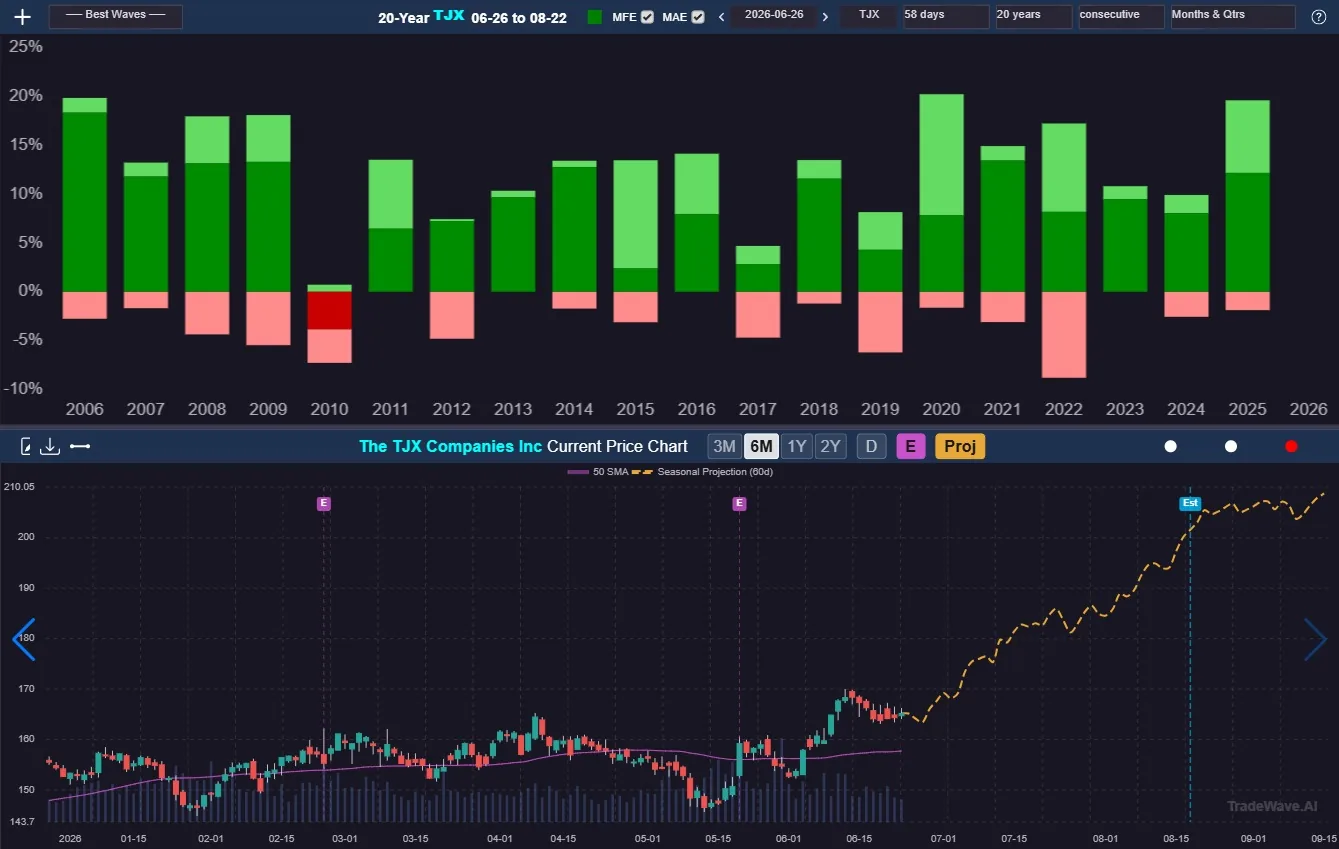
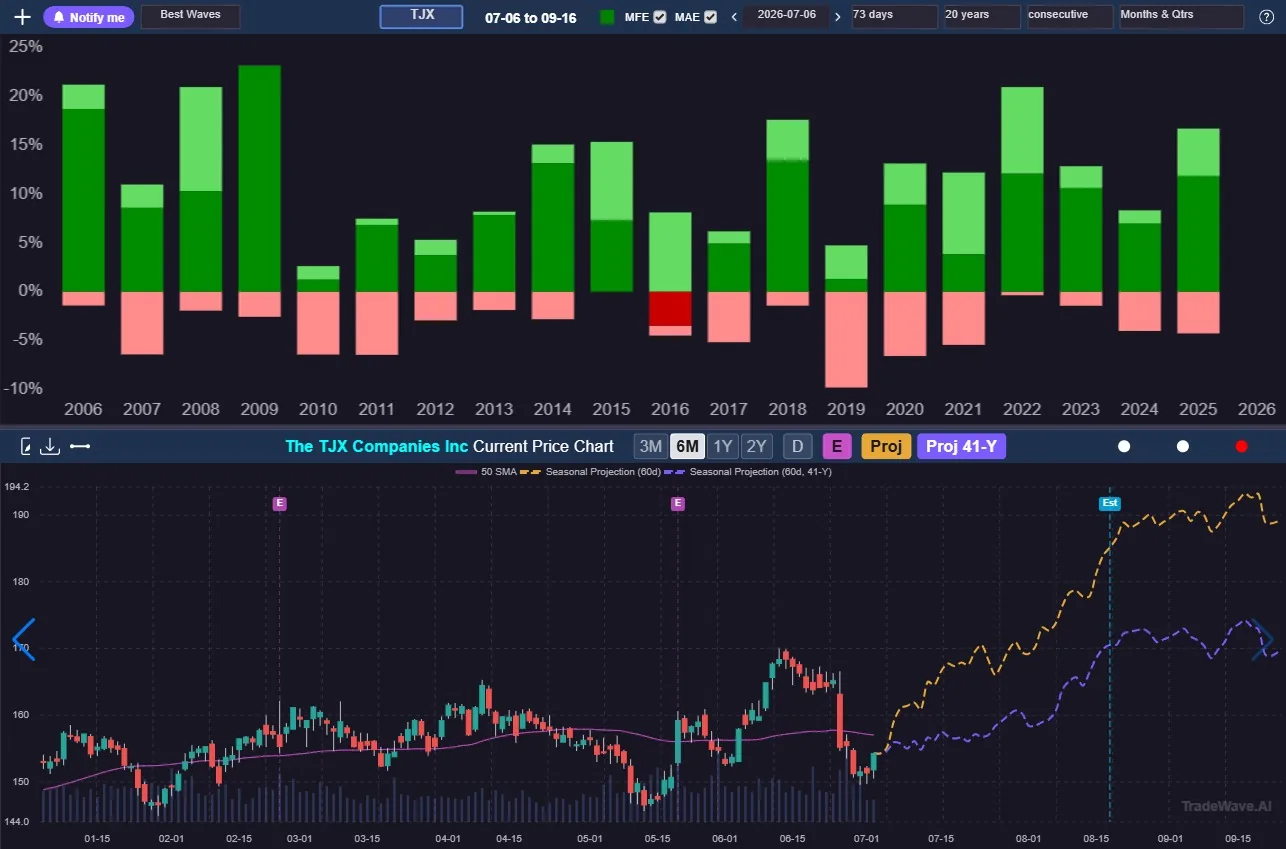
feat(home+ops): ledger resolved-mix guarantee, $14 navigator fallback, hardening
- build_ledger_rows: guarantee >=3 settled rows in the proof strip (picks run
  22-30 days, so the newest 5 are routinely all pending - an all-pending strip
  reads as no track record); rows stay real entries, newest first
- navigator yearly fallback aligned to the decided $168/yr: $14 equiv,
  $0.46/day, Save 26% (the $13.25/30% figure was the June-20 proposal draft)
- homepage template funnel polish, api_marketing env fixes, nginx security
  headers + staging bootstrap hardening; ignore session scratch/backup junk

Claude-Session: https://claude.ai/code/session_0122aCw2KgN8Gwn5tQUi1Hte

diff --git a/site/templates/index-dark-blue.html b/site/templates/index-dark-blue.html
@@ -475,7 +475,7 @@ footer{border-top:1px solid var(--line);padding:56px 0 64px;color:var(--faint);f
 
 <!-- 01 / HERO (copy bound via content.hero - tournament winner; scored runner-ups documented in the generator) -->
 <section class="hero"><div class="wrap">
-  {% if content.mcp_live %}<a href="{{ content.hero.pill_url }}" class="hero-pill reveal"><span class="tag">New</span>{{ content.hero.pill_text }}<span class="arr">&rarr;</span></a>{% endif %}
+  {% if content.mcp_live %}<a href="{{ content.hero.pill_url }}" class="hero-pill reveal"><span class="tag">New</span>{{ content.hero.pill_text }}<span class="arr">&rarr;</span></a>{% elif content.hero.pill_calendar_text %}<a href="{{ content.hero.pill_calendar_url }}" class="hero-pill reveal"><span class="tag">New</span>{{ content.hero.pill_calendar_text }}<span class="arr">&rarr;</span></a>{% endif %}
   <div class="eyebrow reveal" style="justify-content:center"><span class="n">01</span> / {{ content.hero.eyebrow }}</div>
   <h1 class="reveal d1">{{ content.hero.headline }}</h1>
   <p class="section-sub reveal d1" style="max-width:680px">{{ content.hero.subheadline }}</p>
@@ -535,7 +535,7 @@ footer{border-top:1px solid var(--line);padding:56px 0 64px;color:var(--faint);f
     <div class="frame-wrap portrait reveal d1" style="max-width:420px;margin-top:0">
       <div class="frame frame--artifact">
         <div class="bar"><span class="dot"></span><span class="dot"></span><span class="dot"></span><span class="url">tradewave.ai/app - Tara</span></div>
-        <img src="/_static/ask.webp" alt="Tara answering a market question with a named, ranked shortlist of tech stocks beside the live opportunity table" loading="lazy" decoding="async" width="575" height="849">
+        <img src="/_static/ask.webp?v={{ content.asset_v['ask.webp'] }}" alt="Tara answering a market question with a named, ranked shortlist of tech stocks beside the live opportunity table" loading="lazy" decoding="async" width="575" height="849">
       </div>
     </div>
   </div>
@@ -550,7 +550,7 @@ footer{border-top:1px solid var(--line);padding:56px 0 64px;color:var(--faint);f
   <div class="frame-wrap landscape reveal d2" style="max-width:1080px">
     <div class="frame frame--artifact">
       <div class="bar"><span class="dot"></span><span class="dot"></span><span class="dot"></span><span class="url">tradewave.ai/app - 20-Year TJX</span></div>
-      <img src="/_static/evidence_hero.webp" alt="20-Year TJX per-year bars, each pairing the favorable run with the drawdown, above the TJX price chart with this year's dashed seasonal projection" loading="lazy" decoding="async" width="1339" height="849">
+      <img src="/_static/evidence_hero.webp?v={{ content.asset_v['evidence_hero.webp'] }}" alt="20-Year TJX per-year bars, each pairing the favorable run with the drawdown, above the TJX price chart with this year's dashed seasonal projection - with the one-click Notify me calendar-reminder button in the toolbar" loading="lazy" decoding="async" width="1286" height="849">
     </div>
   </div>
   <div class="caption">20 years of TJX. The model only ranks and calibrates the odds - it never predicts. <a href="{{ content.methodology_url }}" style="color:var(--faint);text-decoration:underline">Read the methodology &rarr;</a></div>
@@ -585,7 +585,7 @@ footer{border-top:1px solid var(--line);padding:56px 0 64px;color:var(--faint);f
     <div class="frame-wrap portrait reveal" style="max-width:380px;margin-top:0">
       <div class="frame frame--artifact">
         <div class="bar"><span class="dot"></span><span class="dot"></span><span class="dot"></span><span class="url">tradewave.ai/app - explain</span></div>
-        <img src="/_static/shows_work.webp" alt="The scorecard and explain view showing a pick's full per-year record beside its outcome" loading="lazy" decoding="async" width="575" height="850">
+        <img src="/_static/shows_work.webp?v={{ content.asset_v['shows_work.webp'] }}" alt="The scorecard and explain view showing a pick's full per-year record beside its outcome" loading="lazy" decoding="async" width="575" height="850">
       </div>
     </div>
     <div class="panelshot" style="box-shadow:0 24px 60px rgba(0,0,0,.4),inset 0 1px 0 rgba(63,182,139,.12)">
@@ -608,6 +608,36 @@ footer{border-top:1px solid var(--line);padding:56px 0 64px;color:var(--faint);f
     <div class="av">AM</div>
     <div><q>Every number on this page traces back to a per-year table you can open and an audit log you can read.</q><span class="by">{{ content.founder.name }}, founder, Tara Data Research LLC</span></div>
   </div>
+</div></section>
+
+<!-- CALENDAR REMINDERS band (unnumbered, like the CTA/free-report bands, so the
+     section numbering stays intact). One-click notify bell: the visual is the
+     real button -> the real Google Calendar event it creates. Keep the mock
+     event content in sync with googleCalendarEvents.js if the copy there
+     changes. Google Calendar only for now - do NOT generalize to "your
+     calendar" until the .ics (Apple/Outlook) path ships. -->
+<section id="calendar-reminders"><div class="wrap" style="text-align:center">
+  <h2 class="reveal">Never Watch the Calendar Again</h2>
+  <p class="section-sub reveal d1" style="margin:14px auto 0;text-align:center;max-width:640px">A seasonal window opens on a specific date - miss it, and the pattern doesn't wait. One click in the Wave Viewer puts the open and the close on your Google Calendar, evidence attached, reminder set for the morning it begins.</p>
+  <div class="reveal d1" style="display:flex;align-items:center;justify-content:center;gap:18px;flex-wrap:wrap;margin-top:26px">
+    <div style="text-align:center">
+      <span style="display:inline-flex;align-items:center;background:#7C5CFF;color:#fff;border-radius:999px;padding:8px 18px;font-weight:600;font-size:.95rem;box-shadow:0 6px 24px rgba(124,92,255,.35)"><svg width="13" height="13" viewBox="0 0 16 16" fill="#fff" style="margin-right:7px" aria-hidden="true"><path d="M8 16a2 2 0 0 0 2-2H6a2 2 0 0 0 2 2m.995-14.901a1 1 0 1 0-1.99 0A5 5 0 0 0 3 6c0 1.098-.5 6-2 7h14c-1.5-1-2-5.902-2-7a5 5 0 0 0-4.005-4.901"/></svg>Notify me</span>
+      <div class="faint" style="font-size:.75rem;margin-top:8px">one click in the viewer</div>
+    </div>
+    <div class="faint" style="font-size:1.6rem" aria-hidden="true">&rarr;</div>
+    <div class="panelshot" style="max-width:430px;text-align:left;padding:18px 20px">
+      <div style="display:flex;align-items:flex-start;gap:10px">
+        <span style="width:12px;height:12px;border-radius:3px;background:#7C5CFF;margin-top:5px;flex:0 0 auto"></span>
+        <div>
+          <div style="font-weight:700;color:var(--ink);font-size:.95rem;line-height:1.35">TJX Long &mdash; TradeWave Seasonal Start (Oct 12 &ndash; Nov 24)</div>
+          <div class="faint" style="font-size:.8rem;margin-top:3px">Monday, October 12 &middot; 8:00 AM</div>
+        </div>
+      </div>
+      <div style="border-top:1px solid rgba(255,255,255,.08);margin:12px 0"></div>
+      <div style="font-size:.85rem;color:var(--muted);line-height:1.6"><b style="color:var(--ink)">Seasonal pattern window opens today.</b><br>Full per-year record and shareable report linked inside.<br>Reminders: email 24 h before &middot; popup at 8:00 AM</div>
+    </div>
+  </div>
+  <div class="micro reveal d1" style="margin-top:18px">Included with every plan, even Free. Both the start and the end date land on your calendar - change times or reminders anytime.</div>
 </div></section>
 
 <!-- 06 / WHAT TRADERS SAY (third-party proof: content.video + content.video2, both

diff --git a/site/api_marketing/generate.py b/site/api_marketing/generate.py
@@ -679,13 +679,15 @@ def build_index() -> str:
   </div>
 </section>
 
-<!-- Competitor comparison -->
+<!-- What makes TradeWave different (provider-neutral category columns; no competitor names per house rule) -->
 <section class="section alt">
   <div class="container">
     <div class="section-head">
-      <h2 class="gradient-text-w">How TradeWave compares</h2>
-      <p>Seasonax is the closest alternative - Bloomberg-gated at ~$480/mo with no ML layer and no API.
-         TradeWave undercuts that price and is accessible to any developer or AI agent today.</p>
+      <h2 class="gradient-text-w">What Makes TradeWave Different</h2>
+      <p>TradeWave is the only seasonality engine that both shows its work and scores the odds: an
+         AI-calibrated win-probability on every pattern, a forward-recorded track record, and native
+         REST and MCP access - at a fraction of the cost of a data terminal, open to any developer or
+         AI agent today.</p>
     </div>
     <div class="comp-table-wrap">
       <table class="comp-table">
@@ -693,18 +695,18 @@ def build_index() -> str:
           <tr>
             <th>Feature</th>
             <th>TradeWave API</th>
-            <th>Seasonax</th>
-            <th>Bloomberg Terminal</th>
+            <th>Typical seasonality tools</th>
+            <th>Data terminals</th>
           </tr>
         </thead>
         <tbody>
           <tr><td class="feat-col">ML win-probability scoring</td><td class="tw-col">All tiers (unlimited on Pro+)</td><td class="no-col">No</td><td class="no-col">No</td></tr>
-          <tr><td class="feat-col">REST API access</td><td class="tw-col">Yes - all tiers</td><td class="no-col">No</td><td class="no-col">Terminal only</td></tr>
+          <tr><td class="feat-col">REST API access</td><td class="tw-col">Yes - all tiers</td><td class="no-col">Rare</td><td class="no-col">Terminal only</td></tr>
           <tr><td class="feat-col">MCP / AI agent integration</td><td class="tw-col">Yes - native</td><td class="no-col">No</td><td class="no-col">No</td></tr>
           <tr><td class="feat-col">Verified pick track record</td><td class="tw-col">Yes - forward-recorded</td><td class="no-col">Backtest only</td><td class="no-col">No</td></tr>
-          <tr><td class="feat-col">Redistributable to your own users</td><td class="tw-col">Yes - by design</td><td class="no-col">Mixed</td><td class="no-col">Raw data</td></tr>
-          <tr><td class="feat-col">Starting price</td><td class="tw-col">Free</td><td>~$480/mo</td><td>~$24,000/yr</td></tr>
-          <tr><td class="feat-col">No Bloomberg required</td><td class="tw-col">Yes</td><td class="no-col">No (integration)</td><td>Bloomberg IS the product</td></tr>
+          <tr><td class="feat-col">Redistributable to your own users</td><td class="tw-col">Yes - by design</td><td class="no-col">Mixed</td><td class="no-col">Raw data only</td></tr>
+          <tr><td class="feat-col">No data terminal or seat required</td><td class="tw-col">Yes</td><td class="no-col">Varies</td><td class="no-col">Required</td></tr>
+          <tr><td class="feat-col">Starting price</td><td class="tw-col">Free</td><td>Hundreds per month</td><td>Tens of thousands per year</td></tr>
         </tbody>
       </table>
     </div>
@@ -795,8 +797,8 @@ def build_pricing() -> str:
         taglines = {
             "free": "ML scores included (5/day) - no commitment.",
             "dev": "Build and prototype with full market access (100 ML scores/day).",
-            "pro": "Unlimited ML win-probability scoring across every market.",
-            "business": "High-volume production and team access. Unlimited ML.",
+            "pro": "Unlimited ML across every market at 120 req/min - no web seat required.",
+            "business": "High-volume production, team access, and redistribution rights - no web seat required.",
         }
 
         return f"""<div class="p-card{hl}">
@@ -817,7 +819,6 @@ def build_pricing() -> str:
     <li>Up to {t['max_keys']} API key{'s' if t['max_keys'] > 1 else ''}</li>
     <li>Daily pick + track record</li>
     {'<li>Priority support</li>' if key in ('pro','business') else '<li class="no">Priority support</li>'}
-    {'<li>SLA guarantee</li>' if key == 'business' else ''}
   </ul>
   <a href="{btn_href}" class="btn {btn_class}">{btn_text}</a>
   {note_html}
@@ -835,8 +836,8 @@ def build_pricing() -> str:
   <div class="container">
     <h1><span class="gradient-text-w">API &amp; MCP Pricing</span></h1>
     <p class="sub">A seasonal-pattern research API over REST and MCP. Free tier includes ML scores (5/day),
-       the daily pick, and the verified track record. Dev opens all 15 markets; Pro removes the ML cap;
-       Business adds redistribution rights and team controls.</p>
+       the daily pick, and the verified track record. Dev opens 6 markets (US stocks + ETFs); Pro opens
+       all 15 and removes the ML cap; Business adds redistribution rights and team controls.</p>
     <p class="hero-note" style="margin-top:14px;">No signup to try it: <code style="color:var(--accent);">tw_demo_explore</code> is a public demo token - a real authenticated call in about 30 seconds, no key, no card.</p>
   </div>
 </section>
@@ -864,13 +865,17 @@ def build_pricing() -> str:
 
     <p class="bundle-note">Already subscribe to TradeWave? Your plan already includes API access -
        <strong>Analyst includes the Dev tier</strong> and <strong>Strategist includes Pro</strong>,
-       at no extra cost. Just <a href="{portal_urls.CONSOLE_URL}">create a key</a>.</p>
+       at no extra cost. Just <a href="{portal_urls.CONSOLE_URL}">create a key</a>.
+       Standalone Pro and Business are for builders without a web seat who need the published API caps
+       (Pro 120 req/min, Business 300 req/min) and, on Business, redistribution rights - the bundled
+       Strategist Pro key carries the identical 120 req/min cap.</p>
 
     <div class="section-head" style="margin-top:64px;">
       <h2 class="gradient-text-w">Built for teams and enterprises</h2>
       <p>Bring the edge layer into your org with the controls a security and procurement team expects -
-         centralized multi-seat key management, audit logs, an SLA, commercial seasonal-pattern
-         redistribution rights, and enterprise single sign-on on Business and Enterprise plans.</p>
+         centralized multi-seat key management, audit logs, commercial seasonal-pattern redistribution
+         rights, and enterprise single sign-on on Business and Enterprise plans, with a contractual SLA
+         on Enterprise.</p>
     </div>
     <div class="card" style="max-width:880px;margin:0 auto;">
       <p style="color:var(--dim);line-height:1.7;">When you put a verifiable, conflict-free seasonal-pattern feed
@@ -883,7 +888,7 @@ def build_pricing() -> str:
         <li><strong>Single sign-on and directory sync</strong> - SAML or OIDC plus SCIM provisioning through your identity provider (Okta, Azure AD, Google Workspace) to govern console access. Available on Business and Enterprise; talk to us to enable.</li>
         <li><strong>Multi-seat key management and centralized billing</strong> - issue, rotate, scope, and revoke API keys per developer or service from one admin view, on one invoice.</li>
         <li><strong>Audit logs</strong> - a time-stamped record of key usage and seasonal-pattern access, exportable for your own compliance and review.</li>
-        <li><strong>A service-level agreement</strong> - uptime and support commitments so the seasonal-pattern feed can sit in a production trading workflow.</li>
+        <li><strong>A service-level agreement</strong> - uptime and support commitments so the seasonal-pattern feed can sit in a production trading workflow. Contractual SLA on Enterprise; Business includes priority support.</li>
         <li><strong>Commercial seasonal-pattern redistribution rights</strong> - license TradeWave seasonal patterns into your own product or feed, as percentage movement and the 0-100 seasonal index only, never raw prices. Granted by written agreement on Business and Enterprise - the boundaries live in the <a href="api-terms.html" class="inline">API Terms</a>.</li>
       </ul>
       <div style="text-align:center;margin-top:22px;">
@@ -1190,9 +1195,10 @@ Want me to pull the Trend Chart (the year-averaged 0-100 seasonal index) for any
       <p>TradeWave's MCP is a hosted HTTP server at <code style="font-size:13px;color:var(--accent);">{portal_urls.MCP_URL}</code>.
          In ChatGPT or Claude.ai, paste that URL into Settings - Connectors, click Connect, and
          sign in with your TradeWave account - no API key needed. Bring-your-own-login means metering
-         follows the account you sign in with, not a shared key: ML scores work on every tier (free gets
-         5/day, Pro is unlimited), and when the daily limit is reached the server returns a clear quota
-         message, never a silent error.</p>
+         follows the account you sign in with, not a shared key. In chat, AI scoring follows your
+         TradeWave plan: it begins at Analyst (Explorer and Navigator see the deterministic seasonal
+         patterns), and Strategist is unlimited. When a daily limit is reached the server returns a
+         clear quota message, never a silent error.</p>
     </div>
     <div class="code-block" style="max-width:700px;margin:0 auto 16px;">
 <span class="cm">// claude_desktop_config.json - Claude Desktop / Cursor (dev tools: bring your own API key)</span>
@@ -1373,7 +1379,7 @@ Want me to pull the Trend Chart (the year-averaged 0-100 seasonal index) for any
       <p style="font-size:14px;color:var(--dim);line-height:1.75;margin:0;">
         <strong style="color:var(--text);">Enterprise, by contact sales.</strong> Custom volume, a contractual SLA with uptime and
         service credits, SSO and SCIM with audit logs, an MSA and DPA with security review, invoicing with PO and net-30,
-        and dedicated support. SLA and SSO are available on Business and Enterprise. There is no self-serve SLA;
+        and dedicated support. SSO and SCIM are available on Business and Enterprise; a contractual SLA is Enterprise-only (Business includes priority support). There is no self-serve SLA;
         <a href="{portal_urls.nav('contact.html')}" class="inline">talk to sales</a> to scope the agreement.
       </p>
     </div>
@@ -1460,7 +1466,7 @@ def build_use_cases() -> str:
         <p style="font-size:16px;color:var(--dim);line-height:1.8;margin-bottom:20px;">
           Wire the MCP server into Claude or ChatGPT and you have a working scanner in one afternoon:
           ask "rank the strongest seasonal longs in S&P 500 stocks this week by ML win probability"
-          and get a ranked table back, no terminal, no Seasonax seat. Or skip the chat and hit
+          and get a ranked table back, no terminal, no separate data seat. Or skip the chat and hit
           <code style="font-size:13px;color:var(--accent);">/opportunities</code> from a cron job to
           email yourself the same list every morning. TradeWave supplies the seasonal and ML edge;
           you - or the assistant - pair it with news and fundamentals.
@@ -1558,7 +1564,7 @@ score_resp = requests.<span class="fn">post</span>(
           <li>Seasonal patterns only - no raw price licensing, no OHLCV compliance burden</li>
           <li class="ml">ML win_prob and pred_return on every tier - free=5/day, dev=100/day, pro=unlimited (6 ML-eligible markets)</li>
           <li>Up to 1,000 results per call on Pro, 5,000 on Business</li>
-          <li>300 req/min on Pro - compatible with intraday sweep workflows</li>
+          <li>120 req/min on Pro - compatible with intraday sweep workflows</li>
         </ul>
       </div>
     </div>
@@ -1581,9 +1587,10 @@ score_resp = requests.<span class="fn">post</span>(
           explained output your users can act on.
         </p>
         <p style="font-size:16px;color:var(--dim);line-height:1.8;margin-bottom:24px;">
-          The Business tier (1,200 req/min, 250,000 req/day, 50 API keys) is sized for
-          multi-tenant products. Enterprise is available for custom rate limits, SLAs,
-          and white-label use.
+          The Business tier (300 req/min, 250,000 req/day, 50 API keys) is sized for
+          multi-tenant products - no web seat required - and adds redistribution rights so
+          you can serve the derived values to your own end users under license. Enterprise is
+          available for custom rate limits, SLAs, and white-label use.
         </p>
         <ul class="check-list">
           <li>No raw price data means no exchange license to negotiate</li>
@@ -1646,8 +1653,8 @@ score_resp = requests.<span class="fn">post</span>(
           <li>End-of-day data across the US-market universe, no intraday guesswork</li>
         </ul>
         <p style="font-size:13px;color:var(--muted);line-height:1.7;margin-top:14px;">
-          SSO/SCIM, audit logs, and a contractual SLA are available on Business and Enterprise -
-          talk to sales to scope them.
+          SSO/SCIM and audit logs are available on Business and Enterprise; a contractual SLA is
+          Enterprise-only (Business includes priority support) - talk to sales to scope them.
         </p>
       </div>
     </div>

diff --git a/site/generate_home_page.py b/site/generate_home_page.py
@@ -64,9 +64,9 @@ def _price_fallback_or_die(reason, fallback):
 def _stripe_prices():
     fallback = {
         'navigator_monthly':          '$19',
-        'navigator_yearly':           '$13.25',
-        'navigator_yearly_daily':     '$0.44/day',
-        'navigator_yearly_savings':   'Save 30%',
+        'navigator_yearly':           '$14',
+        'navigator_yearly_daily':     '$0.46/day',
+        'navigator_yearly_savings':   'Save 26%',
         'analyst_monthly':            '$47',
         'analyst_yearly':             '$33.25',
         'analyst_yearly_daily':       '$1.09/day',
@@ -876,7 +876,7 @@ def compute_homepage_scorecard_stats():
     }
 
 
-def build_ledger_rows(limit=5):
+def build_ledger_rows(limit=5, min_resolved=3):
     """Build the forward-ledger preview rows for the 'We Publish the Ledger'
     section (newest first). Each row: {symbol, direction 'L'/'S',
     logged_date 'MM-DD', result 'win'/'loss'/'pending'}.
@@ -884,10 +884,32 @@ def build_ledger_rows(limit=5):
     Drives the redesign's scoretbl directly from featured_history.json using the
     shared is_resolved/is_win definitions, so the visible rows always agree with
     the headline win_rate. Replaces the hardcoded NOW/FTNT/NVDA/AMD/COP mock.
+
+    Guarantees at least min_resolved settled rows (when the history has them):
+    picks run 22-30 days, so the newest 5 entries are routinely ALL still open,
+    and an all-pending strip reads as "no track record" in the one section whose
+    job is proof. The oldest pending slots give way to the newest resolved picks;
+    rows stay real entries, newest first.
     """
     history = load_featured_history()
+    newest_first = list(reversed(history))
+
+    picked = newest_first[:limit]
+    have_resolved = sum(1 for e in picked if is_resolved(e))
+    want_resolved = min(min_resolved, sum(1 for e in newest_first if is_resolved(e)))
+    if have_resolved < want_resolved:
+        backfill = [e for e in newest_first[limit:] if is_resolved(e)]
+        for _ in range(want_resolved - have_resolved):
+            # drop the OLDEST pending row still shown, pull in the next resolved
+            oldest_pending = next((e for e in reversed(picked) if not is_resolved(e)), None)
+            if oldest_pending is None or not backfill:
+                break
+            picked.remove(oldest_pending)
+            picked.append(backfill.pop(0))
+        picked.sort(key=lambda e: e.get('featured_date', ''), reverse=True)
+
     rows = []
-    for entry in reversed(history):
+    for entry in picked:
         if is_resolved(entry):
             result = 'win' if is_win(entry) else 'loss'
         else:
@@ -899,8 +921,6 @@ def build_ledger_rows(limit=5):
             'logged_date': logged[5:] if len(logged) >= 10 else logged,  # MM-DD
             'result': result,
         })
-        if len(rows) >= limit:
-            break
     return rows
 
 
@@ -956,7 +976,7 @@ def generate_html(opportunities_by_tab, featured_data=None, market_bar_items=Non
         "meta": {
             # Kept in sync with hero.headline (the tab title / og:title must
             # never advertise a headline the page no longer says).
-            "title": "TradeWave - Some Market Moves Repeat, We Counted Which Ones",
+            "title": "TradeWave - Reveal Seasonal Tendencies With The Highest Probability of Repeating",
             "description": (
                 "TradeWave detects recurring seasonal patterns from end-of-day "
                 "data across 15 markets, over a lookback you choose: 1 to 99 "
@@ -1009,13 +1029,12 @@ def generate_html(opportunities_by_tab, featured_data=None, market_bar_items=Non
         #                on a public ledger before the outcome, losses included."
         "hero": {
             "eyebrow": "Seasonal Research That Shows Its Work",
-            "headline": "Some Market Moves Repeat - We Counted Which Ones",
+            "headline": "Reveal Seasonal Tendencies With The Highest Probability of Repeating",
             "headline_dynamic": _hero_headline(load_featured_history()),
             "subheadline": (
-                "TradeWave gives you the exact dates and repeat counts, AI-ranked "
-                "and scored, from 15 markets and up to a century of data. The "
-                "daily pick is logged before the outcome, and losses stay on the "
-                "public record."
+                "AI-powered rankings and scores across 98 years of data, ready "
+                "for you to leverage across thousands of stocks, ETFs, as well "
+                "as your own portfolio."
             ),
             # The "New" MCP pill above the headline (links to #tara). Rendered
             # only when content.mcp_live is True (gated, see MCP_LIVE). No
@@ -1024,11 +1043,18 @@ def generate_html(opportunities_by_tab, featured_data=None, market_bar_items=Non
             # claim here - the pill introduces Tara, nothing more.
             "pill_text": "Meet Tara, TradeWave's AI agent - now inside ChatGPT and Claude",
             "pill_url": "#tara",
-            "cta_primary": "Start Free - Full Access for 7 Days",
+            # Calendar-reminders pill: previewed 2026-07-04, owner REJECTED it for
+            # the hero (feature announcements stay out of the hero region; the
+            # calendar band + pricing bullets carry the feature). Text '' = hidden.
+            # The template slot remains: it renders only while the Tara/MCP pill
+            # is dark, should a future announcement ever need it.
+            "pill_calendar_text": "",
+            "pill_calendar_url": "#calendar-reminders",
+            "cta_primary": "Start For Free - No Credit Card Required",
             "cta_primary_url": SIGNUP_URL,
             # FREE-path reassurance (June-30 directive). The free signup is
             # genuinely card-free; never reuse this line on a paid path.
-            "cta_micro": "Getting started is free. No credit card required.",
+            "cta_micro": "Full Access for 7 Days",
             # Lead-in to the hero's quiet free-report card (the card is styled
             # subordinate to the primary CTA; capture stays strong in 03/08).
             "report_lead": (
@@ -1272,6 +1298,7 @@ def generate_html(opportunities_by_tab, featured_data=None, market_bar_items=Non
                         "See today's top 5 seasonal patterns",
                         "10 years of seasonal history",
                         "Track up to 5 opportunities in 1 portfolio",
+                        "One-click Google Calendar reminders",
                         "Real-time prices and Trend Score",
                         "Earnings date estimates (EDGAR)",
                         "Election-cycle overlay on loaded patterns",
@@ -1301,6 +1328,7 @@ def generate_html(opportunities_by_tab, featured_data=None, market_bar_items=Non
                         "Browse any start date, not just today",
                         "15 years of seasonal history",
                         "3 portfolios, track up to 25 opportunities",
+                        "One-click Google Calendar reminders",
                         "1 watchlist, up to 25 symbols",
                         "Election-cycle filter on the opportunity table",
                         "~upgrade:Upgrade to Analyst for AI scoring and all U.S. stocks plus ETFs",
@@ -1336,6 +1364,7 @@ def generate_html(opportunities_by_tab, featured_data=None, market_bar_items=Non
                         # per-stock promise. Re-check if the data provider changes.
                         "Full seasonal history - up to 63 years where data is available",
                         "25 portfolios, track up to 100 opportunities",
+                        "One-click Google Calendar reminders",
                         "10 watchlists, up to 50 symbols each",
                         "Seasonal Market News articles",
                         "LIVE weekly Q&A webinar",
@@ -1497,6 +1526,15 @@ def generate_html(opportunities_by_tab, featured_data=None, market_bar_items=Non
         # added, populate [{date, title, url}] and the section appears.
         "recent_articles": None,
         "articles_library_url": "/insights/",
+    }
+
+    # Per-asset cache-buster (source-file mtime): nginx serves /_static/ with a
+    # 1-day browser cache, so a swapped screenshot would not show for returning
+    # visitors without a changed URL. Only changes when the asset actually does.
+    _asset_dir = Path(__file__).resolve().parent / "static"
+    content["asset_v"] = {
+        a: int((_asset_dir / a).stat().st_mtime) if (_asset_dir / a).exists() else 0
+        for a in ("evidence_hero.webp", "shows_work.webp", "ask.webp")
     }
 
     return template.render(content=content)
